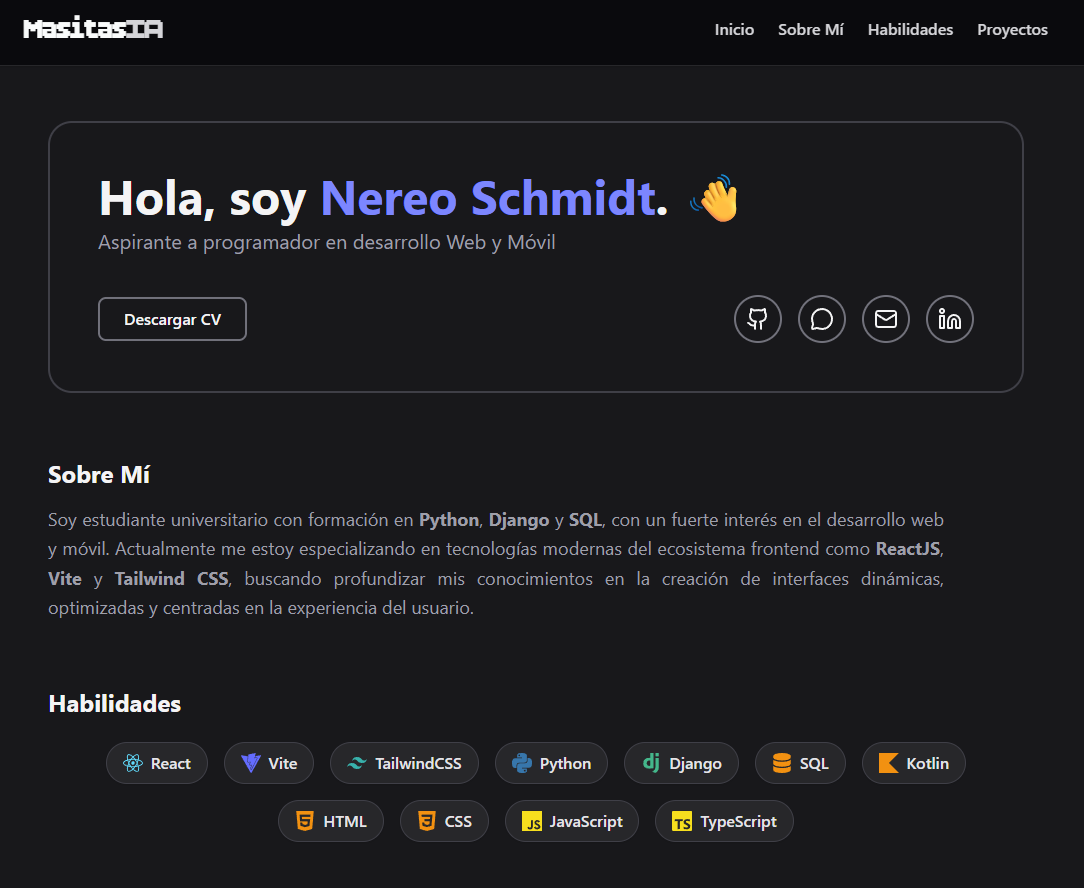
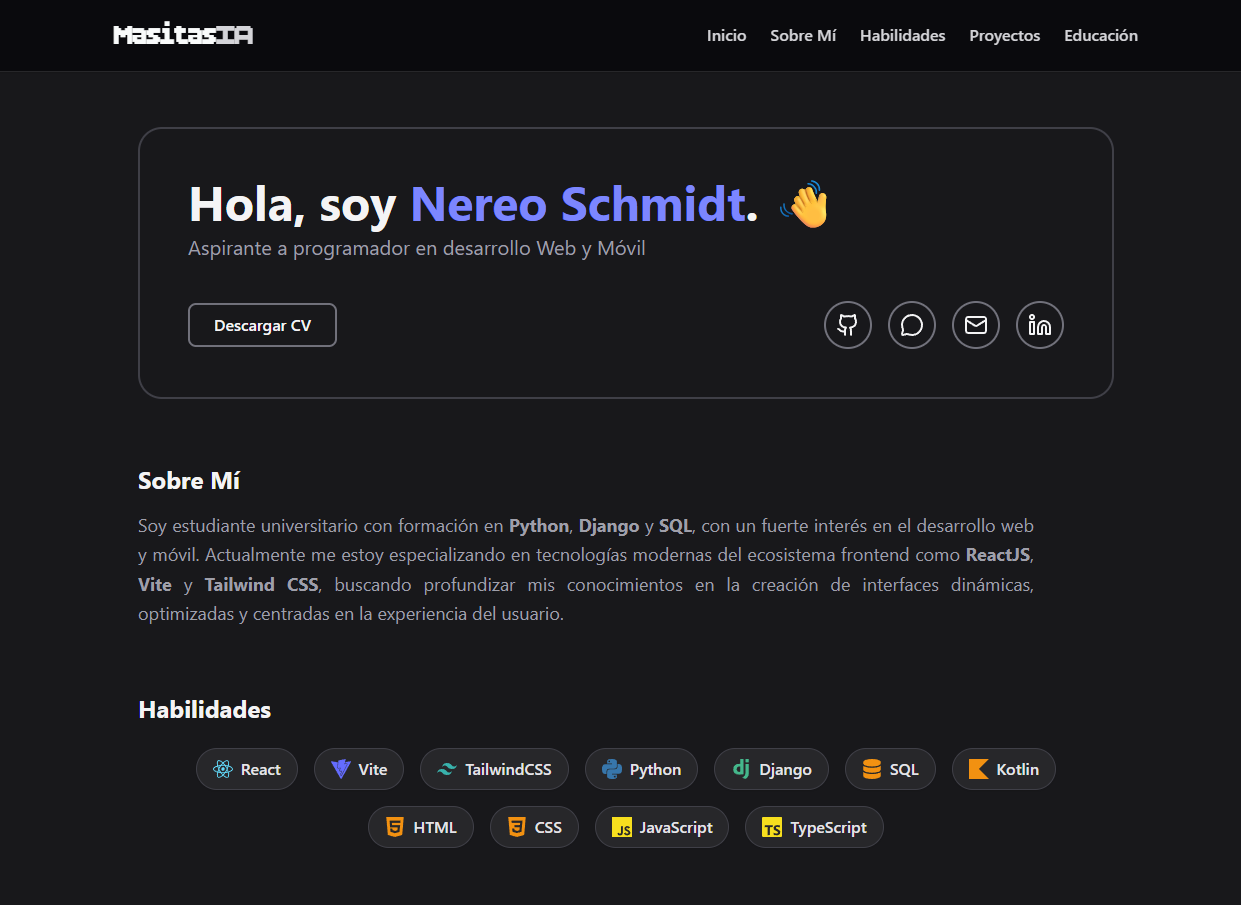
Agregando Footer, Educación y Stats (#4)

diff --git a/src/App.tsx b/src/App.tsx
@@ -28,6 +28,7 @@ export default function App() {
             <a href="#sobre-mi" className="hover:text-indigo-400 transition-colors">Sobre Mí</a>
             <a href="#skills" className="hover:text-indigo-400 transition-colors">Habilidades</a>
             <a href="#proyectos" className="hover:text-indigo-400 transition-colors">Proyectos</a>
+            <a href="#educacion" className="hover:text-indigo-400 transition-colors">Educación</a>
           </nav>
 
           <button 
@@ -44,6 +45,7 @@ export default function App() {
             <a href="#sobre-mi" onClick={closeMenu} className="text-xl font-medium text-zinc-300 hover:text-indigo-400 transition-colors">Sobre Mí</a>
             <a href="#skills" onClick={closeMenu} className="text-xl font-medium text-zinc-300 hover:text-indigo-400 transition-colors">SKILLS</a>
             <a href="#proyectos" onClick={closeMenu} className="text-xl font-medium text-zinc-300 hover:text-indigo-400 transition-colors">Proyectos</a>
+            <a href="#educacion" onClick={closeMenu} className="text-xl font-medium text-zinc-300 hover:text-indigo-400 transition-colors">Educación</a>
           </nav>
         )}
         
@@ -206,7 +208,7 @@ export default function App() {
 
             {/* Proyecto 3: Portafolio Personal */}
             <div className="bg-zinc-800 rounded-xl shadow-md border border-zinc-700 overflow-hidden flex flex-col hover:border-zinc-500 transition-colors group">
-              <div className="w-full h-48 bg-zinc-900 overflow-hidden relative p-0 flex items-center justify-center">
+              <div className="w-full h-100 bg-zinc-900 overflow-hidden relative flex items-center justify-center">
                 <img 
                   src="/PORTADA.png" 
                   alt="Portafolio Personal / MasitasIA" 
@@ -233,10 +235,98 @@ export default function App() {
             </div>
 
           </div>
+        </section>
+        
+        {/* SECCIÓN: EDUCACIÓN */}
+        <section id="educacion" className="scroll-mt-32">
+          <h2 className="text-2xl font-bold mb-4 text-zinc-100">Educación</h2>
+            <div className='bg-zinc-800 rounded-xl'>
+              <div className='p-6 border-b border-zinc-700'>
+                <h3 className='text-xl font-bold text-zinc-100'>Tecnicatura en Data Science</h3>
+                <p className='text-zinc-400'>Teclab "Instituo Técnico Superior" - <b><span className="text-indigo-400">2025/PRESENTE</span></b></p>
+              </div>
+              <div className='p-6'>
+                <h3 className='text-xl font-bold text-zinc-100'>Bachiller en Economía y Administración</h3>
+                <p className='text-zinc-400'>Escuela Secundaria Nº5 "Coronel Marcelino E Freyre" - <b><span className="text-indigo-400">2019/2025</span></b></p>
+              </div>
+            </div>
+        </section>
 
+{/* SECCIÓN: ESTADÍSTICAS MANUALES */}
+        <section id="estadisticas" className="scroll-mt-32">
+          <h2 className="text-2xl font-bold mb-6 text-zinc-100">Lenguajes Más Usados</h2>
+          
+          <div className="bg-zinc-800 rounded-xl shadow-md border border-zinc-700 p-8 hover:border-zinc-500 transition-colors">
+            
+            <p className="text-zinc-400 mb-8 text-justify">
+              Basado en la actividad reciente de mis repositorios en GitHub.
+            </p>
+
+            <div className="flex flex-col gap-6">
+              
+              {/* Barra 1: Python */}
+              <div>
+                <div className="flex justify-between text-sm font-medium mb-2">
+                  <span className="text-zinc-200 flex items-center gap-2">
+                    <span className="w-3 h-3 rounded-full bg-[#3572A5]"></span> Python
+                  </span>
+                  <span className="text-zinc-400">45%</span>
+                </div>
+                <div className="w-full bg-zinc-900 rounded-full h-2.5">
+                  <div className="bg-[#3572A5] h-2.5 rounded-full" style={{ width: '45%' }}></div>
+                </div>
+              </div>
+
+              {/* Barra 2: TypeScript */}
+              <div>
+                <div className="flex justify-between text-sm font-medium mb-2">
+                  <span className="text-zinc-200 flex items-center gap-2">
+                    <span className="w-3 h-3 rounded-full bg-[#3178C6]"></span> TypeScript
+                  </span>
+                  <span className="text-zinc-400">30%</span>
+                </div>
+                <div className="w-full bg-zinc-900 rounded-full h-2.5">
+                  <div className="bg-[#3178C6] h-2.5 rounded-full" style={{ width: '30%' }}></div>
+                </div>
+              </div>
+
+              {/* Barra 3: Kotlin */}
+              <div>
+                <div className="flex justify-between text-sm font-medium mb-2">
+                  <span className="text-zinc-200 flex items-center gap-2">
+                    <span className="w-3 h-3 rounded-full bg-[#A97BFF]"></span> Kotlin
+                  </span>
+                  <span className="text-zinc-400">15%</span>
+                </div>
+                <div className="w-full bg-zinc-900 rounded-full h-2.5">
+                  <div className="bg-[#A97BFF] h-2.5 rounded-full" style={{ width: '15%' }}></div>
+                </div>
+              </div>
+
+              {/* Barra 4: CSS */}
+              <div>
+                <div className="flex justify-between text-sm font-medium mb-2">
+                  <span className="text-zinc-200 flex items-center gap-2">
+                    <span className="w-3 h-3 rounded-full bg-[#563D7C]"></span> CSS / Tailwind
+                  </span>
+                  <span className="text-zinc-400">10%</span>
+                </div>
+                <div className="w-full bg-zinc-900 rounded-full h-2.5">
+                  <div className="bg-[#563D7C] h-2.5 rounded-full" style={{ width: '10%' }}></div>
+                </div>
+              </div>
+
+            </div>
+            
+          </div>
         </section>
 
       </main>
+
+      {/* FOOTER */}
+      <footer className="bg-zinc-950 text-center py-6 border-t border-zinc-800">
+        <p className="text-sm text-zinc-500">&copy; 2026 Nereo Schmidt. Puedes modificar libremente esta web para uso personal o comercial.</p>
+      </footer>
 
     </div>
   )
